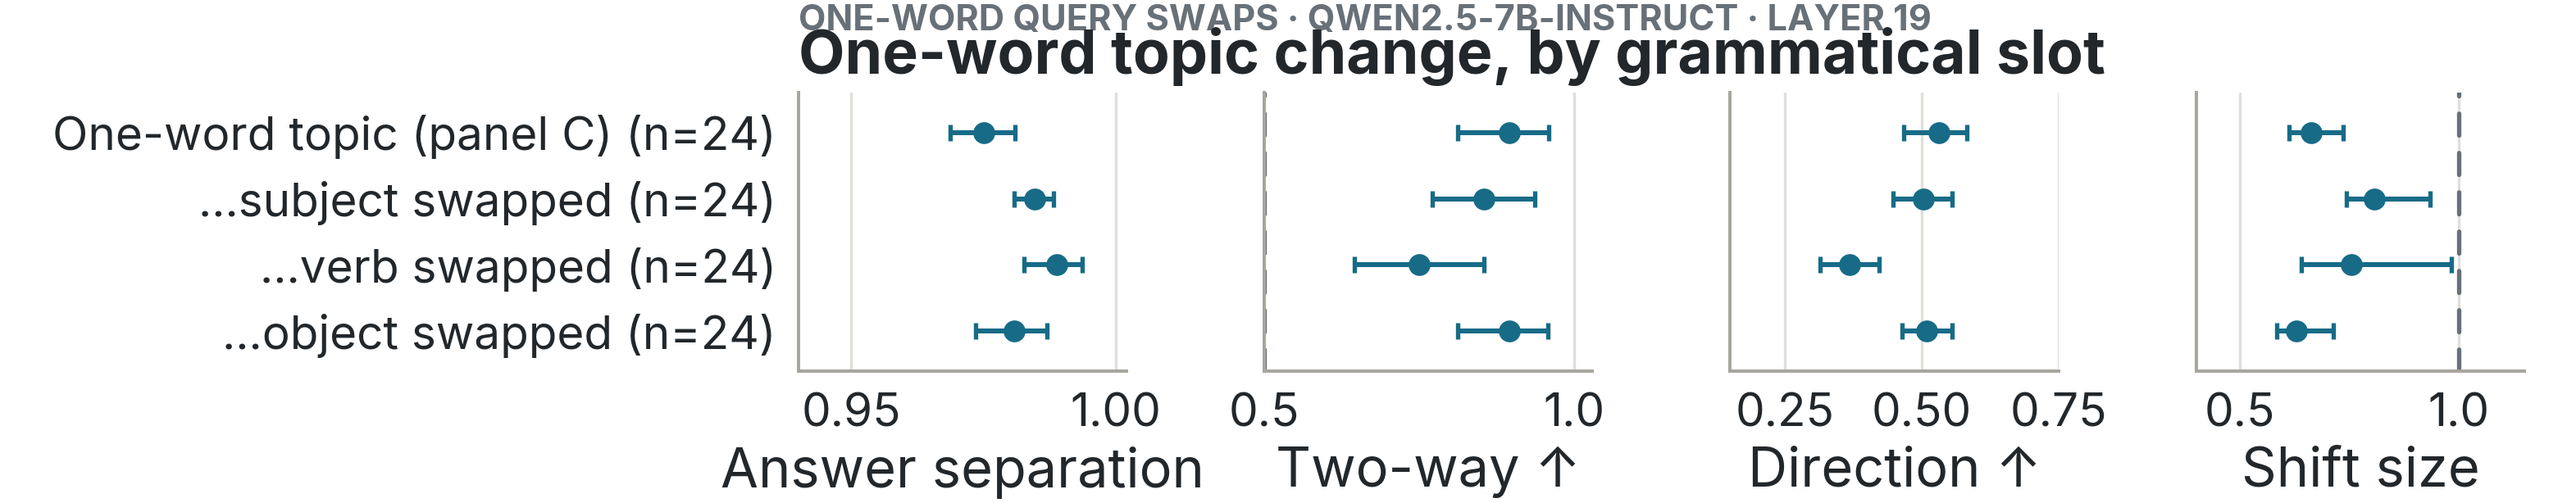
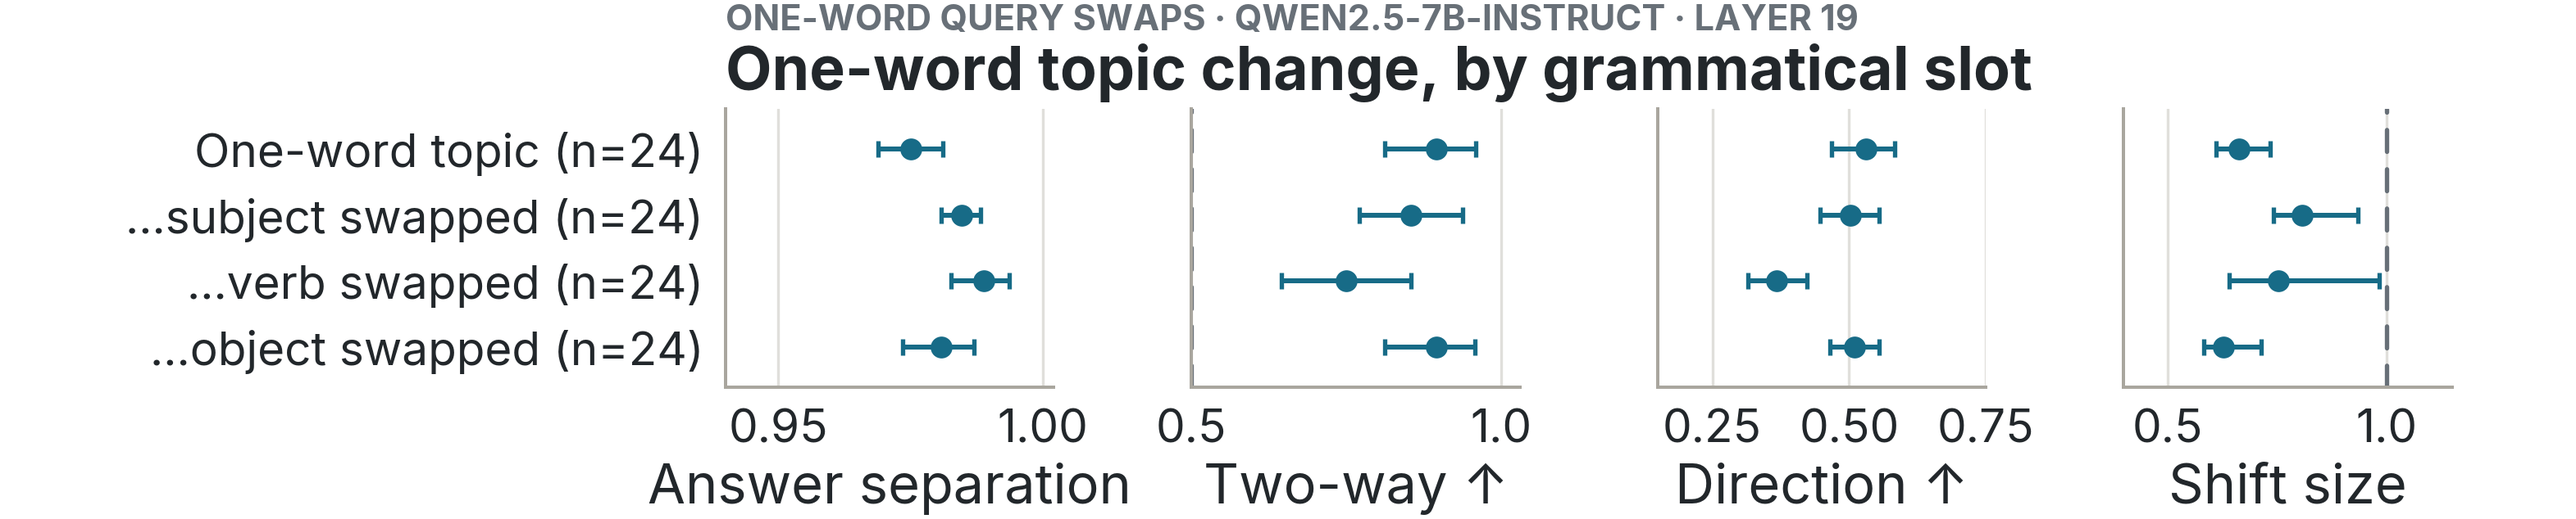
section 4.2 figures: drop drafting shorthand from the by-slot row label
Defect A. The appendix by-slot figure rendered its pooled row as
"One-word topic (panel C)". "Panel C" was internal drafting shorthand
and names nothing a reader of the paper can find, so the parenthetical
is removed and the row now reads "One-word topic".

Defect B. The by-slot kicker and panel title sat 4.4 px apart against
the main figure's 12.0 px, tight enough that the kicker descenders and
the title ascenders nearly touched. Raising kicker_y from 1.20 to 1.26
in make_element_shifts_by_slot_figure puts the gap at 12.9 px, level
with the main figure. No other kicker_y value is touched.

Verification. c3_element_shifts.pdf, .png and _grayscale.png are byte
identical to the previous commit, so the label lives only in the by-slot
row map and the main panel is untouched. Across both meta sidecars, 200
numeric leaves were compared and the only one that moved is
exported_size_inches height on the by-slot figure, 2.559 to 2.644 in,
which is the taller tight crop the raised kicker produces. No plotted
value changed. The two tolerated canvas-edge warnings on the 1.4 and 1.5
tick labels are unchanged from before this round.

diff --git a/scripts/make_paper_section42_figures.py b/scripts/make_paper_section42_figures.py
@@ -766,7 +766,7 @@ _ELEMENT_SHIFT_GROUPS = (
 # Appendix companion: the main-panel row the slots decompose, then the slots.
 _SLOT_ROW_ORDER = ("One-word topic", "slot: subject", "slot: verb", "slot: object")
 _SLOT_ROW_LABELS = {
-    "One-word topic": "One-word topic (panel C)",
+    "One-word topic": "One-word topic",
     "slot: subject": "…subject swapped",
     "slot: verb": "…verb swapped",
     "slot: object": "…object swapped",
@@ -916,7 +916,7 @@ def make_element_shifts_by_slot_figure(data: dict) -> tuple[plt.Figure, float]:
                 "",
                 "one-word query swaps · qwen2.5-7b-instruct · layer 19",
                 "One-word topic change, by grammatical slot",
-                kicker_y=1.20,
+                kicker_y=1.26,
                 title_y=1.07,
             )
     return fig, include_frac
